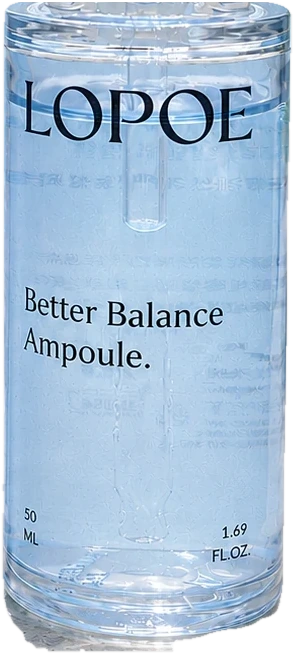
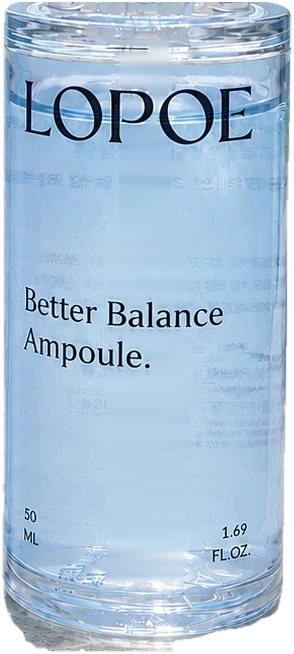
W060: ống nhỏ giọt mới có đầu ra, bỏ bóng ống trong thân; chuẩn hoá tỷ lệ hũ–serum Medicube
Claude-Session: https://claude.ai/code/session_01SM32Gy7XZHf11jVL44stwA

diff --git a/components/cuon-3d/canh.ts b/components/cuon-3d/canh.ts
@@ -425,10 +425,10 @@ export function taoCanh(
     // 4) Nắp nhỏ giọt (đơn vị cảnh; đáy chai ở y = -CAO/2, miệng chai ở y = -CAO/2 + caoThan)
     if (NAP.nhom && NAP.giot && NAP.gon) {
       const nhac = seg(p, 0.43, 0.455) - seg(p, 0.5, 0.525), lech = seg(p, 0.452, 0.468) - seg(p, 0.495, 0.51);
-      const LIFT = 0.78, LECH = 0.55; // nhấc đủ cao để lộ ống nhỏ giọt
+      const LIFT = 0.95, LECH = 0.55; // nhấc đủ cao để lộ đầu ống nhỏ giọt (ống dài 340px = 0.88 đơn vị)
       NAP.nhom.position.set(lech * LECH, nhac * LIFT, 0.01);
       NAP.nhom.rotation.z = -lech * 0.1;
-      const f = seg(p, 0.466, 0.492), tx = lech * LECH, dayChai = -CAO / 2, mieng = dayChai + caoThanAmp, ty = mieng - 0.06 + nhac * LIFT - 0.55; // giọt rơi từ đầu ống (ống dài ~0.55 dưới cổ khi đã nhấc)
+      const f = seg(p, 0.466, 0.492), tx = lech * LECH, dayChai = -CAO / 2, mieng = dayChai + caoThanAmp, ty = mieng - 0.02 + nhac * LIFT - 0.88; // giọt rơi từ đầu ống (đầu ống cách đáy nắp 340px ≈ 0.88)
       NAP.giot.visible = f > 0 && f < 1 && nhac > 0.5;
       if (NAP.giot.visible) {
         const taoGiot = kep(f / 0.3), roi = kep((f - 0.3) / 0.7);

diff --git a/components/trang-chu/trang-chu.css b/components/trang-chu/trang-chu.css
@@ -908,11 +908,11 @@
 
 /* Điện thoại nhỏ (<= 420px) */
 @media (max-width: 420px) {
-  /* 2 món: 2×200 − 2×14 = 372px, vừa khung 390 không tràn mép */
+  /* 2 món: 2×230 − 2×40 = 380px, vừa khung 390 không tràn mép (ảnh đã chuẩn hoá nên chồng lề được) */
   .tc-v3 .hinh.bo.kho.bo-2 img {
-    height: 200px;
-    width: 200px;
-    margin: 0 -14px;
+    height: 230px;
+    width: 230px;
+    margin: 0 -40px;
   }
 
   .tc-v3 .o h2,

diff --git a/tasks/W060.md b/tasks/W060.md
@@ -1,0 +1,18 @@
+# W060 · Ampoule 3D: ống nhỏ giọt + bóng ống; tỷ lệ hũ–serum Vampire Glow
+
+Đã làm (Claude). Antigravity KHÔNG làm lại.
+
+## CĐT chỉ đạo (20/11, kèm 3 ảnh HEIC chụp dropper thật)
+1. Ống nhỏ giọt khi mở nắp: dài bất thường, không có đầu ra tinh chất → làm lại hợp lý, không cần giống 100%.
+2. Rút nắp ra nhưng thân chai vẫn còn bóng ống bên trong → bỏ.
+3. Vị trí tương đối hũ Deep Vita C và chai serum ở ô Vampire Glow chưa hợp lý.
+
+## Đã sửa
+- `public/thu-nghiem/lopoe-3d/ampoule-nap.webp`: giữ bầu + cổ nắp từ ảnh thật, vẽ lại ống thuỷ tinh sạch (rộng 28px, dài 340px, thon dần, có đầu ra). Canvas vẫn 294×975, đáy cổ nắp vẫn y=365 (không đổi `dayCoNap`).
+- `public/thu-nghiem/lopoe-3d/ampoule-than.webp`: vá vùng ống + khúc xạ ống trong thân chai (nội suy ngang, giữ nguyên chữ in).
+- `components/cuon-3d/canh.ts`: LIFT 0.78 → 0.95 để đầu ống lộ khỏi miệng chai khi nhấc; giọt rơi từ đúng đầu ống (0.88 đơn vị dưới cổ nắp).
+- `public/trang-chu/medicube-*.webp`: chuẩn hoá theo kích thước thật, cùng đường đáy y=950/1000 — serum 30ml cao 900px, hũ 55g cao 446px (tỷ lệ 105mm : 52mm).
+- CSS ≤420px: ô 2 món 230px, lề −40px (ảnh đã chuẩn hoá nên chồng lề được), tổng 380px < 390.
+
+## Lưu ý
+- Ống thật dài tới gần đáy chai; bản web rút ngắn theo yêu cầu CĐT để thấy đầu ống khi nhấc.
